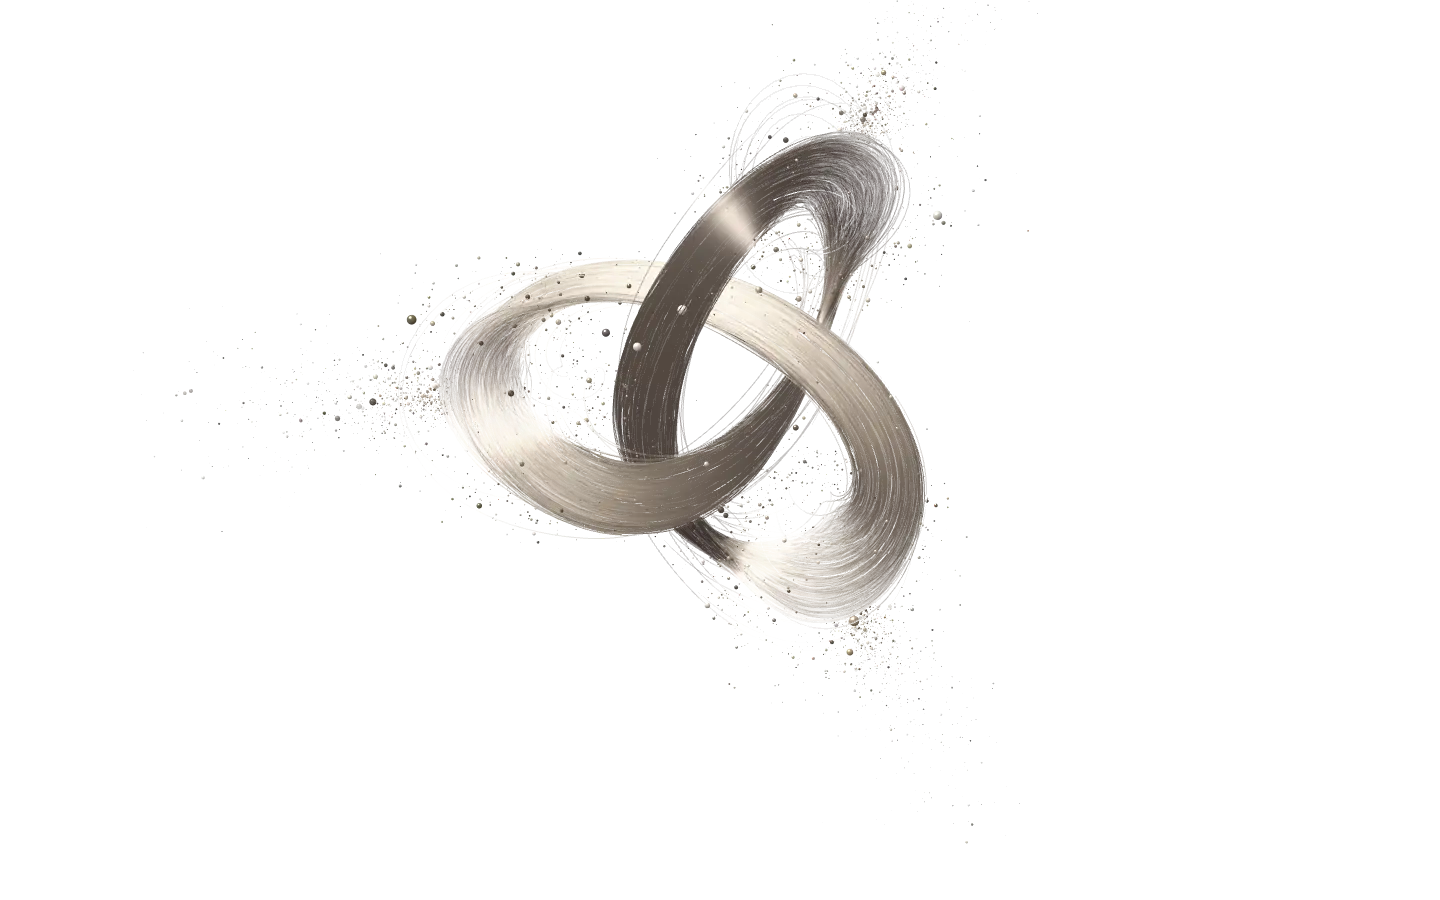
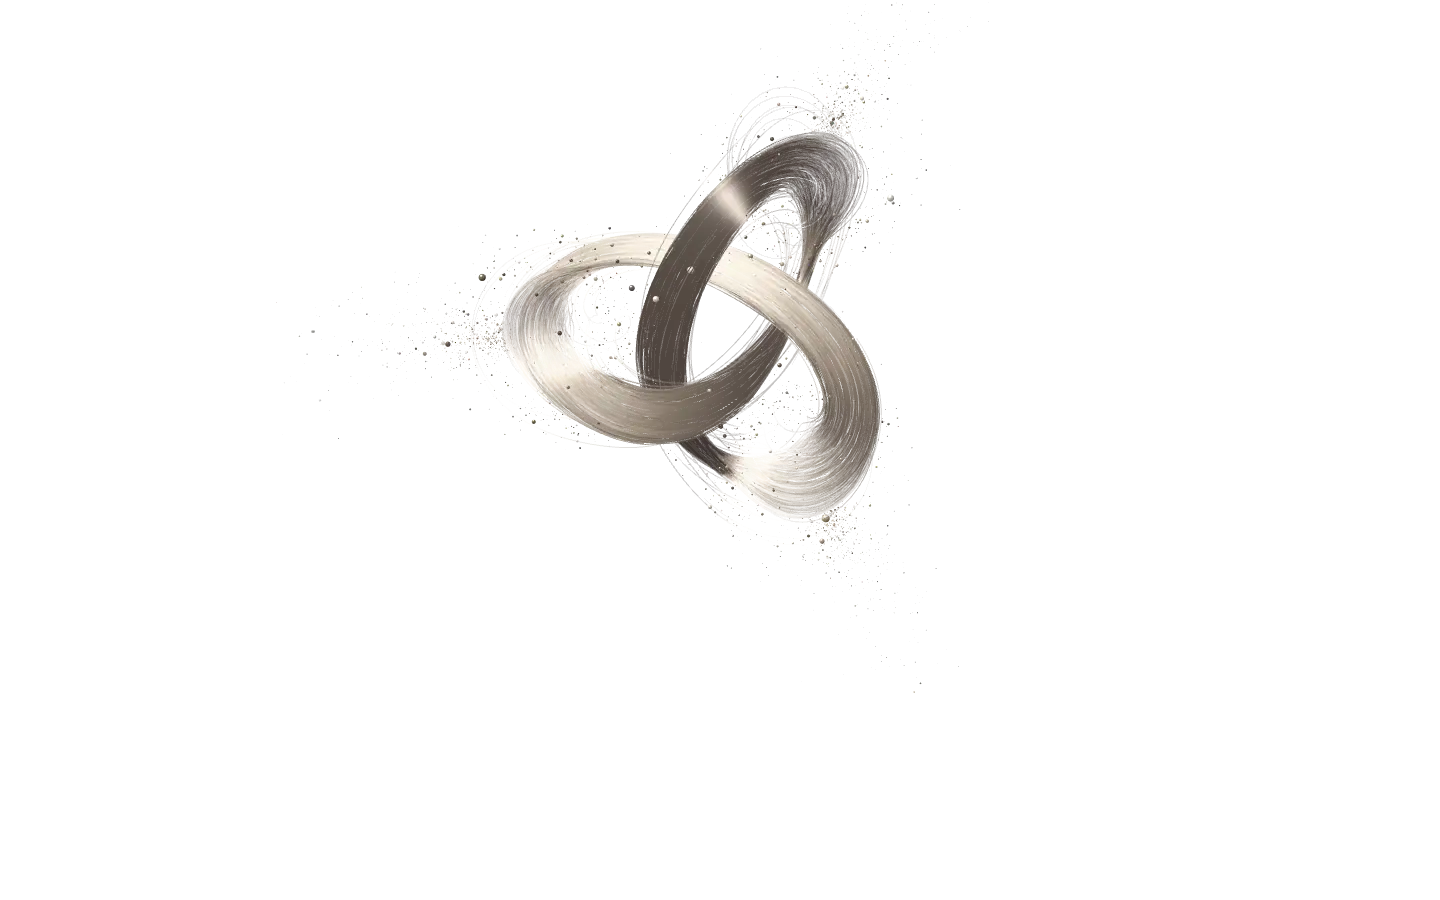
PaperManager hero C: keep the knot below the navbar and the helix clear of the text
C1: smaller and higher-centred knot, clear of the navbar and the text block.
C2: the helix is short on the left and long off the right edge, starts right
of the text column, sheds its left-end dust downwards, and the column gets a
soft background wash; on phones the helix sits larger above the text.
Fresh still images for both.

Changed region(s): [[0.25, 0.0622, 0.6562, 0.7156]]

diff --git a/assets/js/papermanager-hero-c.js b/assets/js/papermanager-hero-c.js
@@ -256,18 +256,18 @@
       clingU: function (gg, R, tip) { return tip ? tips[Math.floor(R() * 3)] + gauss(R) * 0.045 : R(); },
       view: function (t) { return [0.16 + 0.08 * Math.sin(t * 0.07), 0.32 * Math.sin(t * 0.09 + 0.6), 0.25 + t * 0.045]; },
       counts: { fibres: [2600, 1200], dust: [15000, 6000], spheres: [80, 40], latent: [9000, 3000], halo: [0, 0] },
-      layout: { wide: [0.0, 0.15, 0.55], tall: [0, 0.45, 0.8] }
+      layout: { wide: [0.0, 0.27, 0.43], tall: [0, 0.52, 0.74] }
     };
   }
 
   // C2: a double helix: two silk ribbons wound round each other, base pairs strung
   // between them as thin threads with pearls; both ends fray into dust.
   function helix() {
-    var guides = [], emitters = [], L = 2.5, r = 0.4, w = TAU / 1.7;
+    var guides = [], emitters = [], L1 = 1.0, L2 = 3.2, r = 0.4, w = TAU / 1.7; // short to the left (the text), long off the right edge
     function frayEnds(u) { return Math.max(smooth(0.1, 0, u), smooth(0.9, 1, u)); }
     [0, Math.PI].forEach(function (ph) {
       var g = guide(function (v) {
-        var x = -L + 2 * L * v;
+        var x = -L1 + (L1 + L2) * v;
         return [x, r * Math.cos(w * x + ph), r * Math.sin(w * x + ph)];
       }, 1600, false, function (p) { return norm([0, p[1], p[2]]); }, true);
       g.width = function (u) { return 0.11 * (1 - 0.3 * frayEnds(u)); };
@@ -281,7 +281,7 @@
     });
     // base pairs: short straight bundles across the axis
     var rungs = [];
-    for (var x = -L + 0.32; x < L - 0.3; x += 0.17) {
+    for (var x = -L1 + 0.32; x < L2 - 0.3; x += 0.17) {
       (function (x) {
         var a = [x, r * Math.cos(w * x), r * Math.sin(w * x)], b = [x, -a[1], -a[2]];
         var g = guide(function (v) { return [a[0], a[1] + (b[1] - a[1]) * v, a[2] + (b[2] - a[2]) * v]; }, 24, false,
@@ -295,7 +295,9 @@
       })(x);
     }
     [-1, 1].forEach(function (sd) {
-      emitters.push({ p: [sd * L * 0.97, 0, 0], dir: [sd, 0, 0], jit: 0.18, len: 0.45, sig0: 0.08, sigK: 0.14, w: 1, box: [0, r * 0.6, r * 0.6] });
+      // the left end only sheds a little dust, downwards, away from the text column
+      emitters.push(sd > 0 ? { p: [L2 * 0.97, 0, 0], dir: [1, 0, 0], jit: 0.18, len: 0.45, sig0: 0.08, sigK: 0.14, w: 1, box: [0, r * 0.6, r * 0.6] }
+        : { p: [-L1 * 0.97, 0, 0], dir: [-0.3, -1, 0.2], jit: 0.25, len: 0.18, sig0: 0.06, sigK: 0.1, w: 0.3, box: [0, r * 0.5, r * 0.5] });
     });
     return {
       guides: guides, emitters: emitters, cling: 0.34, radius: 1.6,
@@ -303,7 +305,7 @@
       pearls: rungs, // a pearl at each end of every base pair
       view: function (t) { return [0.25 + 0.04 * Math.sin(t * 0.07), -0.35 + 0.12 * Math.sin(t * 0.06), 0.42, t * 0.22]; },
       counts: { fibres: [3000, 1400], dust: [12000, 5000], spheres: [50, 26], latent: [8000, 3000], halo: [0, 0] },
-      layout: { wide: [0.52, 0.02, 0.9], tall: [0.1, 0.42, 1.05] }
+      layout: { wide: [0.5, 0.0, 0.9], tall: [0.12, 0.5, 1.3] }
     };
   }
 

diff --git a/_sass/_papermanager-hero-c.scss b/_sass/_papermanager-hero-c.scss
@@ -211,6 +211,16 @@
     transform: translateY(-46%);
   }
   .pm-cx-head, .pm-cx-side { max-width: 34rem; }
+  &::before {
+    // a soft wash of the background behind the text column, in case dust drifts in
+    content: '';
+    position: absolute;
+    inset: 0 auto 0 0;
+    width: max(46%, calc((100% - 1180px) / 2 + 40rem));
+    background: linear-gradient(to right, color-mix(in srgb, var(--cx-bg) 92%, transparent) 70%, transparent);
+    pointer-events: none;
+    z-index: 2;
+  }
   .pm-cx-head { margin-bottom: 1.6rem; }
   .pm-cx-title { font-size: clamp(2.8rem, 5.4vw, 5.4rem); }
 }
@@ -254,6 +264,7 @@
 
 @media (max-width: 700px) {
   .pm-cx { min-height: max(100svh, 760px); }
+  .pm-cx-2.pm-cx::before { display: none; }
   .pm-cx-1 .pm-cx-copy, .pm-cx-2.pm-cx .pm-cx-copy, .pm-cx-3 .pm-cx-copy {
     top: auto;
     bottom: 3.2rem;
